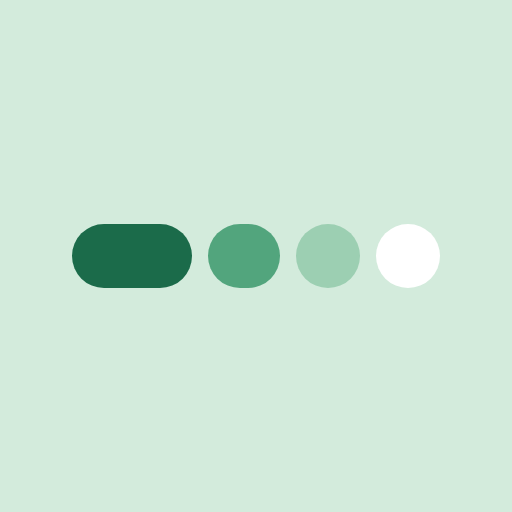
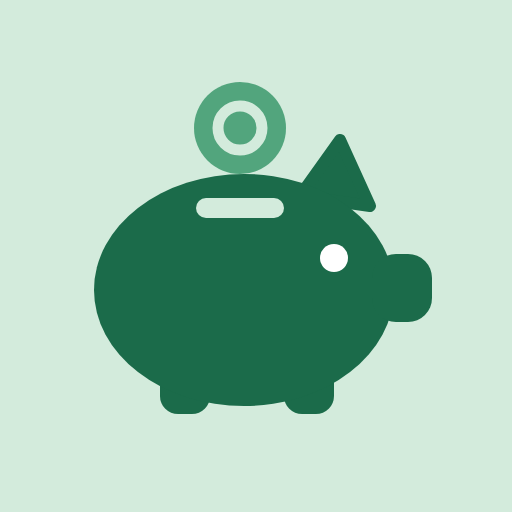
Zmień ikonę aplikacji na skarbonkę (#20)
Skarbonka z wpadającą monetą lepiej mówi, czego dotyczy aplikacja,
niż poprzedni pasek podziału. Kształty bez drobnych detali, żeby ikona
była czytelna także w rozmiarze ok. 30 px. PNG 180/192/512 wygenerowane
ponownie z SVG.

Wersja cache w sw.js podniesiona do v2, żeby telefony pobrały nowe ikony.

Changed region(s): [[0.125, 0.1562, 0.875, 0.8125]]

diff --git a/sw.js b/sw.js
@@ -3,7 +3,7 @@
 // Podnoś numer przy każdej zmianie plików aplikacji (AGENTS §6). Nowa nazwa
 // to nowy cache, a stary zostaje usunięty w „activate”. Bez tego telefon
 // dalej pokazywałby starą wersję.
-const CACHE_NAME = 'budgetapp-v1';
+const CACHE_NAME = 'budgetapp-v2';
 
 // Ścieżki względne: na GitHub Pages aplikacja działa pod /BudgetApp/.
 const APP_FILES = [
